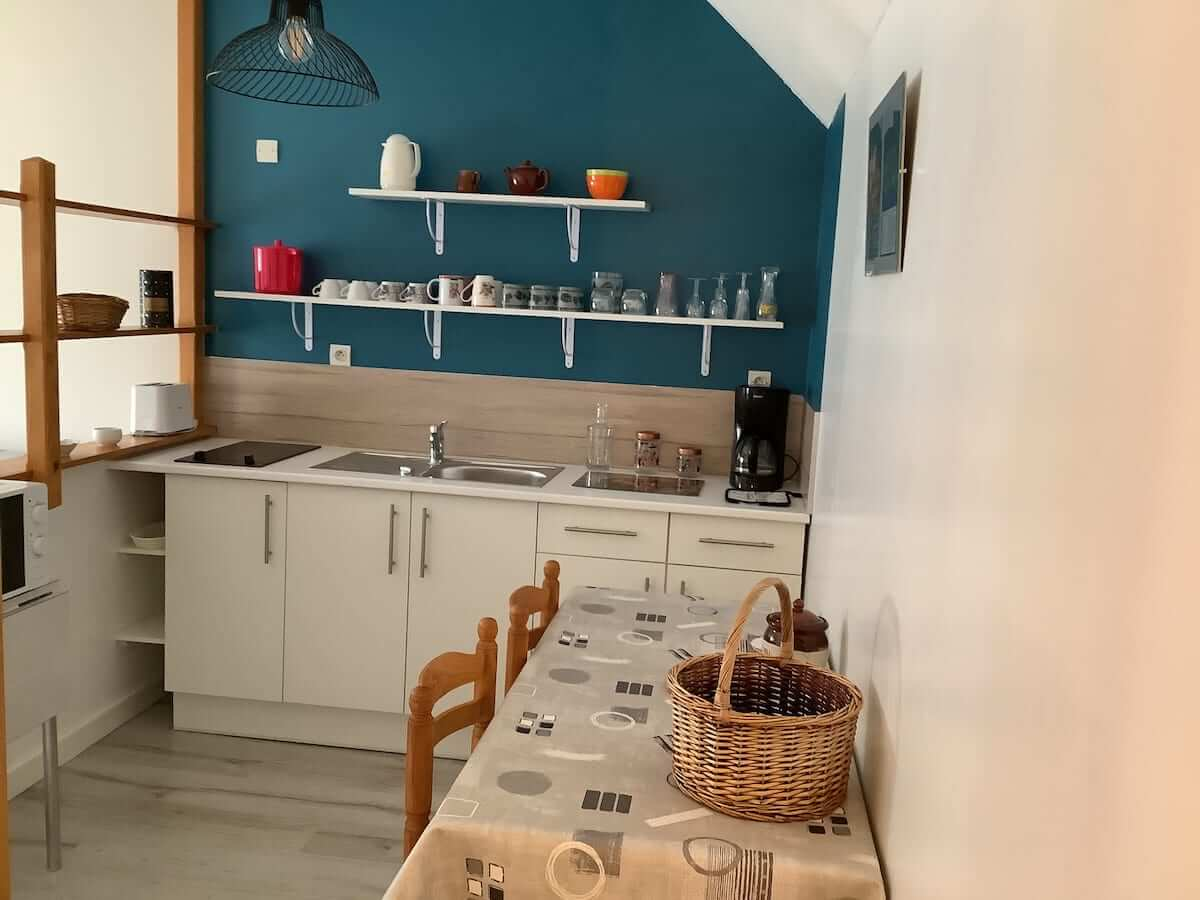
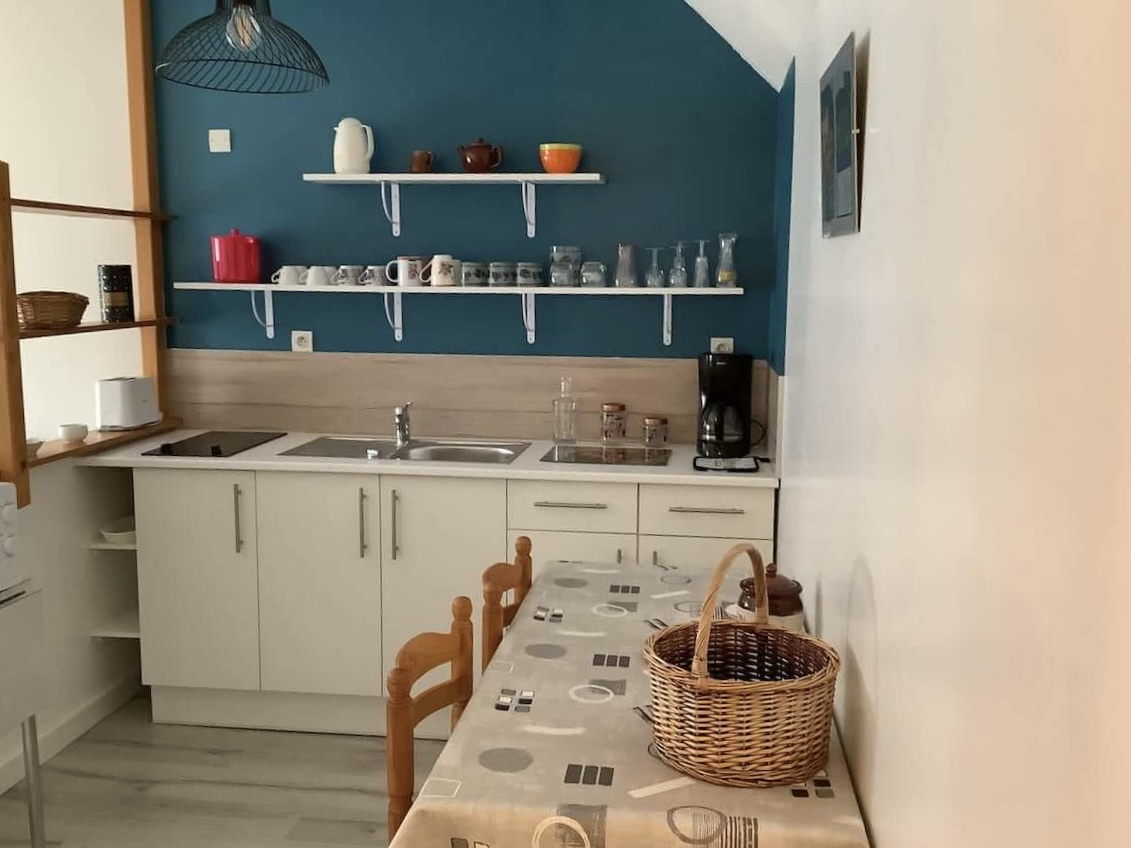
Put back the kitchen as the header photo

Changed region(s): [[0.0, 0.0, 0.8046, 1.0]]

diff --git a/assets/css/header.css b/assets/css/header.css
@@ -1,5 +1,5 @@
 header {
-    background-image: url('../images/outside-02.jpeg');
+    background-image: url('../images/kitchen-01.jpeg');
     background-size: cover;
     background-repeat: no-repeat;
     background-position: center;
